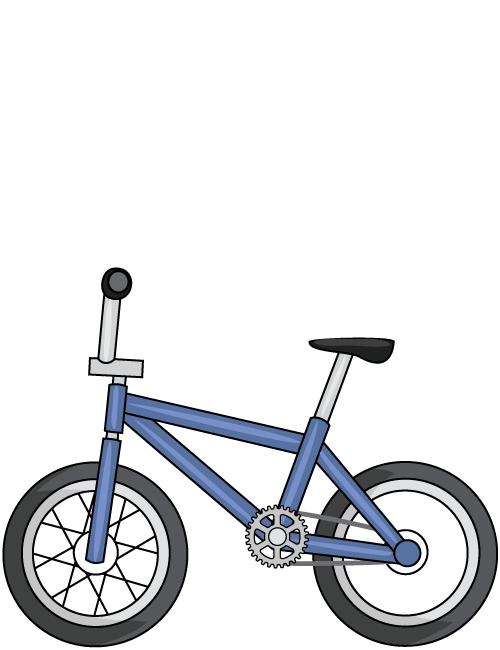
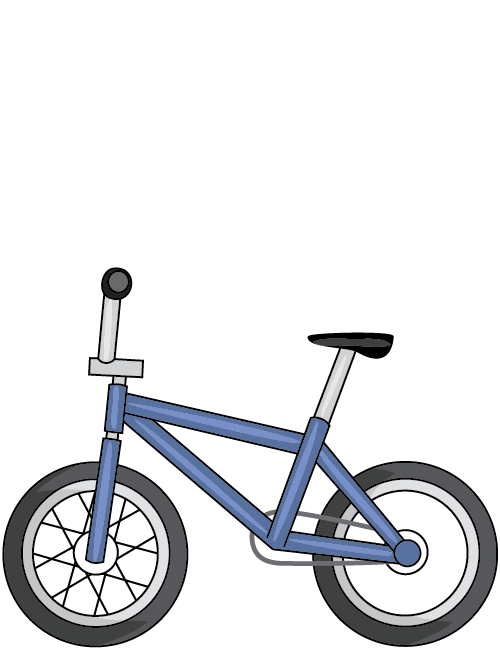
Add bike gear and rotate it to match bike cranks, see https://github.com/phetsims/energy-forms-and-changes/issues/81

diff --git a/js/systems/view/BikerNode.js b/js/systems/view/BikerNode.js
@@ -80,6 +80,7 @@ define( function( require ) {
   var NUMBER_OF_LEG_IMAGES = cyclistFrontLegImages.length;
   var NUMBER_OF_TORSO_IMAGES = cyclistTorsoImages.length;
   var bicycleFrameImage = require( 'image!ENERGY_FORMS_AND_CHANGES/bicycle_frame.png' );
+  var bicycleGearImage = require( 'image!ENERGY_FORMS_AND_CHANGES/bicycle_gear.png' );
   var bicycleSpokesImage = require( 'image!ENERGY_FORMS_AND_CHANGES/bicycle_spokes.png' );
 
   // constants
@@ -104,6 +105,10 @@ define( function( require ) {
     var bicycleFrameNode = new Image( bicycleFrameImage, {
       right: BICYCLE_SYSTEM_RIGHT_OFFSET,
       top: BICYCLE_SYSTEM_TOP_OFFSET,
+      scale: IMAGE_SCALE
+    } );
+    var bicycleGearNode = new Image( bicycleGearImage, {
+      center: modelViewTransform.modelToViewDelta( Biker.CENTER_OF_GEAR_OFFSET ),
       scale: IMAGE_SCALE
     } );
     var bicycleSpokesNode = new Image( bicycleSpokesImage, {
@@ -151,9 +156,11 @@ define( function( require ) {
       cyclistFrontLegRootNode.addChild( cyclistFrontLegNodes[ i ] );
     }
 
-    // animate legs by setting image visibility based on crank arm angle
+    // animate legs by setting image visibility based on crank arm angle. also animate the gear by mapping its angle of
+    // rotation to the crank arm angle
     var visibleBackLeg = cyclistBackLegNodes[ 0 ];
     var visibleFrontLeg = cyclistFrontLegNodes[ 0 ];
+    var gearRotationPoint = bicycleGearNode.bounds.center;
     biker.crankAngleProperty.link( function( angle ) {
       assert && assert( angle >= 0 && angle <= 2 * Math.PI, 'Angle out of range: ' + angle );
       var i = biker.mapAngleToImageIndex( angle );
@@ -163,6 +170,12 @@ define( function( require ) {
       visibleBackLeg = cyclistBackLegNodes[ i ];
       visibleFrontLeg.setVisible( true );
       visibleBackLeg.setVisible( true );
+
+      // Scenery doesn't use the convention in physics where a positive rotation is counter-clockwise, so we have to
+      // invert the angle in the following calculation.
+      var compensatedAngle = ( 2 * Math.PI - bicycleGearNode.getRotation() ) % ( 2 * Math.PI );
+      var delta = angle - compensatedAngle;
+      bicycleGearNode.rotateAround( gearRotationPoint, -delta );
     } );
 
     // add button to replenish the biker's energy (when she runs out)
@@ -242,6 +255,7 @@ define( function( require ) {
     this.addChild( cyclistBackLegRootNode );
     this.addChild( bicycleSpokesNode );
     this.addChild( bicycleFrameNode );
+    this.addChild( bicycleGearNode );
     this.addChild( cyclistTorsoRootNode );
     this.addChild( cyclistFrontLegRootNode );
 

diff --git a/js/systems/model/Biker.js b/js/systems/model/Biker.js
@@ -34,10 +34,11 @@ define( function( require ) {
   var REAR_WHEEL_RADIUS = 0.021; // In meters, must be worked out with the image.
   var NUMBER_OF_LEG_IMAGES = 18; // must match number of leg images in view
 
-  // offsets used for creating energy chunk paths - these need to be coordinated with the images
+  // offsets used for creating energy chunk paths and rotating images - these need to be coordinated with the images
   var BIKER_BUTTOCKS_OFFSET = new Vector2( 0.02, 0.04 );
   var TOP_TUBE_ABOVE_CRANK_OFFSET = new Vector2( 0.007, 0.015 );
   var BIKE_CRANK_OFFSET = new Vector2( 0.0052, -0.002 );
+  var CENTER_OF_GEAR_OFFSET = new Vector2( 0.0058, -0.006 );
   var CENTER_OF_BACK_WHEEL_OFFSET = new Vector2( 0.035, -0.01 );
   var UPPER_CENTER_OF_BACK_WHEEL_OFFSET = new Vector2( 0.035, -0.006 ); // where the top chain meets the back wheel cassette
   var TOP_TANGENT_OF_BACK_WHEEL_OFFSET = new Vector2( 0.024, 0.007 );
@@ -564,6 +565,7 @@ define( function( require ) {
   }, {
 
     // statics
+    CENTER_OF_GEAR_OFFSET: CENTER_OF_GEAR_OFFSET,
     CENTER_OF_BACK_WHEEL_OFFSET: CENTER_OF_BACK_WHEEL_OFFSET,
     INITIAL_NUMBER_OF_ENERGY_CHUNKS: INITIAL_NUMBER_OF_ENERGY_CHUNKS,
     MAX_ANGULAR_VELOCITY_OF_CRANK: MAX_ANGULAR_VELOCITY_OF_CRANK,
